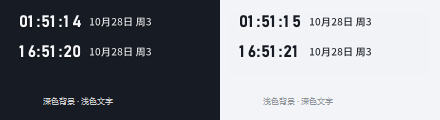
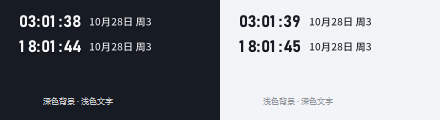
fix: reduce spacing between clock rows

diff --git a/index.html b/index.html
@@ -32,7 +32,7 @@
     .desktop:before{content:"";position:absolute;inset:0;background:radial-gradient(ellipse at 24% 25%,#375858 0,transparent 55%),radial-gradient(ellipse at 81% 83%,#41426d 0,transparent 48%);opacity:.85}
     .sample{position:relative;display:flex;align-items:center;padding:0 22px}
     .sample+ .sample{background:#f2f4f7}
-    .clock-set{width:100%;display:grid;gap:12px}
+    .clock-set{width:100%;display:grid;gap:8px}
     .clock-row{display:grid;grid-template-columns:86px max-content;align-items:baseline;column-gap:4px;white-space:nowrap}
     .clock{font-family:var(--mono);font-weight:600;font-size:19px;line-height:1;letter-spacing:-.035em;color:#f7fafc;text-shadow:0 2px 8px #0008}
     .sample+ .sample .clock{color:#222a35;text-shadow:0 1px 4px #fff8}

diff --git a/source/src/render.rs b/source/src/render.rs
@@ -5,6 +5,8 @@ use std::{
     slice,
 };
 
+const ROW_STEP: f32 = 40.;
+
 fn checked(status: i32, what: &str) -> Result<(), String> {
     if status == 0 {
         Ok(())
@@ -250,7 +252,7 @@ impl Renderer {
             let sf = self.factor * 2.;
             let mut status = 0;
             for (row, time) in [local, beijing].iter().enumerate() {
-                let row_y = 3. + row as f32 * 48.;
+                let row_y = 3. + row as f32 * ROW_STEP;
                 let clock = time_text(*time);
                 let mut x = 10.;
                 for c in clock.chars() {
@@ -506,7 +508,7 @@ mod tests {
             .unwrap();
         let pixels = r.surface.data();
         let w = r.surface.width as usize;
-        let second_row = (48. * r.factor).round() as usize;
+        let second_row = (ROW_STEP * r.factor).round() as usize;
         assert!(pixels[..w * second_row].iter().any(|p| *p >> 24 > 180));
         assert!(pixels[w * second_row..].iter().any(|p| *p >> 24 > 180));
     }
@@ -544,7 +546,7 @@ mod tests {
         let w = r.surface.width as usize;
         let h = r.surface.height as usize;
         assert!(pixels.iter().filter(|p| **p >> 24 <= 3).count() > pixels.len() / 2);
-        let second_row = (48. * r.factor).round() as usize;
+        let second_row = (ROW_STEP * r.factor).round() as usize;
         assert!(pixels[..w * second_row].iter().any(|p| *p >> 24 > 200));
         assert!(pixels[w * second_row..].iter().any(|p| *p >> 24 > 180));
         let row_bounds = |start: usize, end: usize| {
